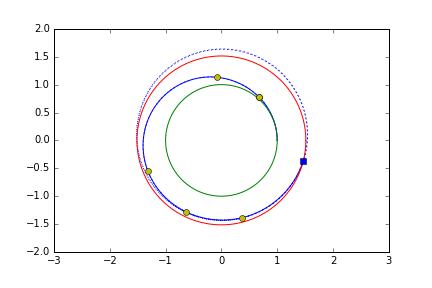
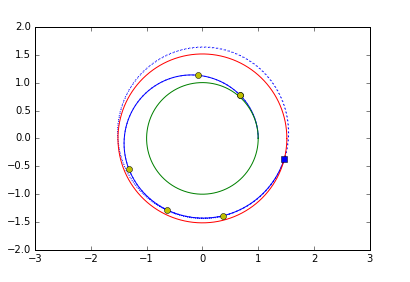
d

Changed region(s): [[0.0293, 0.0567, 0.9073, 0.9362], [0.2634, 0.1418, 0.7317, 0.7943]]

diff --git a/Uphysicsc.tex b/Uphysicsc.tex
@@ -255,13 +255,15 @@ In the last section it has been shown that it is quite hard to arrive to Mars or
 \begin{figure}
 	\centering
 	\label{fig:maniobres}
-	\includegraphics[scale=0.5]{Maniobres.png}
+	\includegraphics[scale=0.55]{Maniobres.png}
 	\caption{Trajectory of the sail with the manoeuvres required to stabilize the orbit, yellow dots. Spacecraft as a blue square in the moment of crossing Mars orbit for the first time. Axes in AU.}
 \end{figure}
 
-This will be ensured by making $\alpha$, which determines the force acting on the sail, a function of time. An ideal model would consider this $\alpha(t)$ as a continous function of time and this can be done using similar methods to those used in \cite{xinos}. Nevertheless, due to the complexity of simulations, in this survey it is shown $\alpha$ as a function which is constant in different intervals of time. As a consequence, the model suggests that making an approach to Mars orbit is possible with few manoeuvres, this is, with few changes of $\alpha$. Obviously, one must not forget that the orbit achieved is not the same as Mars one, but it is actually really close. Notice, moreover, that the last manoeuvre sets $\alpha=0$ something which will imply a resulting force characteristic of a central force, a bit different of the gravitational one because of the sun light orthogonal incidence. Calculations give a really close proximity between Mars and the craft within 5 years since the launching moment with initial conditions, and a relative speed of $2$km/s, something that will ensure a safe landing. Even though, the aim of this approach was not to landing Mars but to orbiting like it, since, changing initial positions in real life would assure the desired landing.
+This will be ensured by making $\alpha$, which determines the force acting on the sail, a function of time. An ideal model would consider this $\alpha(t)$ as a continous function of time and this can be done using similar methods to those used in \cite{xinos}. Nevertheless, due to the complexity of simulations, in this survey it is shown $\alpha$ as a function which is constant in different intervals of time. As a consequence, the model suggests that making an approach to Mars orbit is possible with few manoeuvres, this is, with few changes of $\alpha$. Obviously, one must not forget that the orbit achieved is not the same as Mars one, but it is actually really close. Notice, moreover, that the last manoeuvre sets $\alpha=0$ something which will imply a resulting force characteristic of a central force, a bit different of the gravitational one because of the sun light orthogonal incidence. Calculations give a really close proximity between Mars and the craft within 5 years since the launching moment with initial conditions, and a relative speed of $2$km/s, something that will ensure a safe landing. Simulation also suggests another monoeuvre would be needed after some years of orbit if it was wanted to mantain it. Even though the aim of this approach was not to land on Mars but to orbit like it, since, changing initial positions in real life would assure the desired landing.
 
 Furthermore, it is required to know $\alpha(t)$ in order to design the flight plan represented in \autoref{fig:maniobres}. This is shown in \autoref{fig:escaleta}. Data of this manoeuvres is inspired once again in \cite{xinos}.
+
+
 \begin{figure}
 	\label{fig:escaleta}
 	\includegraphics[scale=0.35]{cocu.png}
